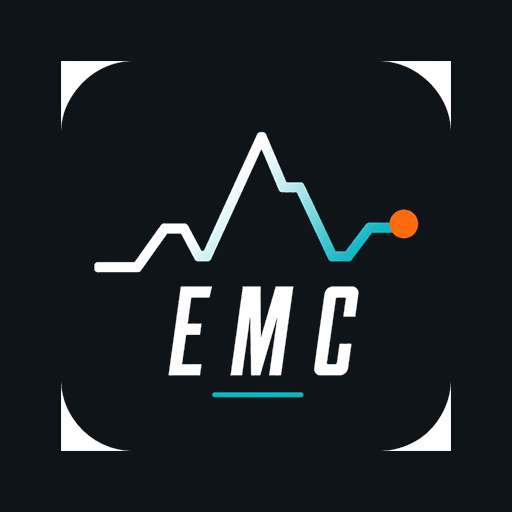
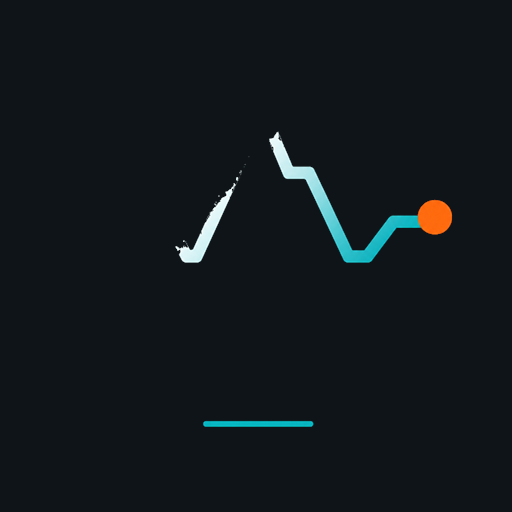
app improvements and pwa

diff --git a/client/index.html b/client/index.html
@@ -17,7 +17,7 @@
     <meta name="robots" content="noindex, nofollow" />
     <link rel="canonical" href="https://www.everymilecounts.in/" />
     <link rel="icon" type="image/svg+xml" href="/favicon.svg" />
-    <link rel="apple-touch-icon" sizes="180x180" href="/apple-touch-icon.png" />
+    <link rel="apple-touch-icon" sizes="180x180" href="/apple-touch-icon.png?v=3" />
 
     <meta property="og:type" content="website" />
     <meta property="og:site_name" content="Every Mile Counts" />

diff --git a/client/public/push-handler.js b/client/public/push-handler.js
@@ -9,8 +9,8 @@ self.addEventListener('push', (event) => {
   event.waitUntil(
     self.registration.showNotification(payload.title || 'Every Mile Counts', {
       body: payload.body || '',
-      icon: '/logo.png',
-      badge: '/logo.png',
+      icon: '/pwa-192-maskable.png',
+      badge: '/pwa-192-maskable.png',
       data,
     })
   );

diff --git a/client/vite.config.js b/client/vite.config.js
@@ -10,6 +10,7 @@ export default defineConfig({
       includeAssets: [
         'favicon.svg',
         'logo.svg',
+        'logo-mark.svg',
         'logo.png',
         'apple-touch-icon.png',
         'pwa-192.png',
